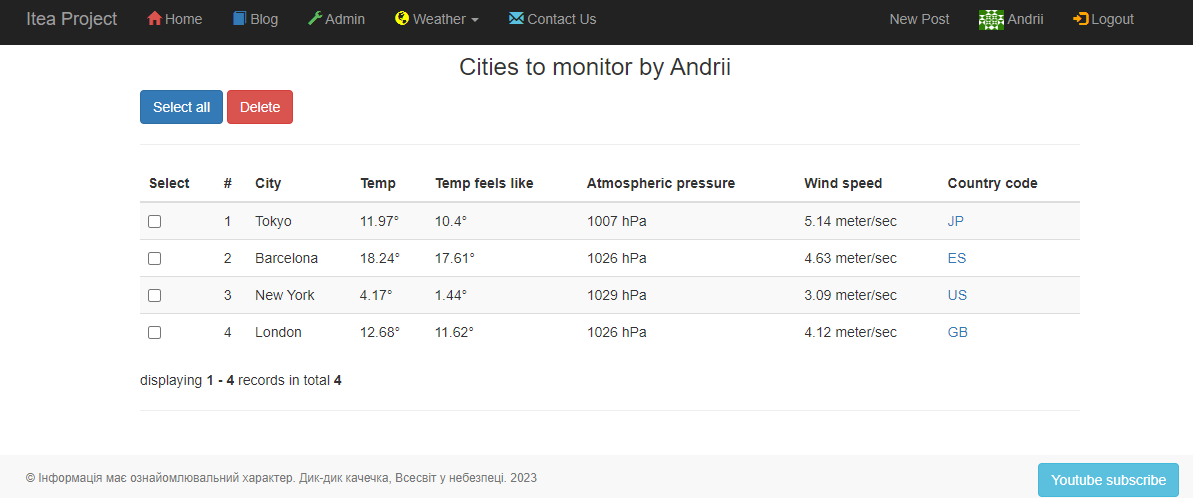
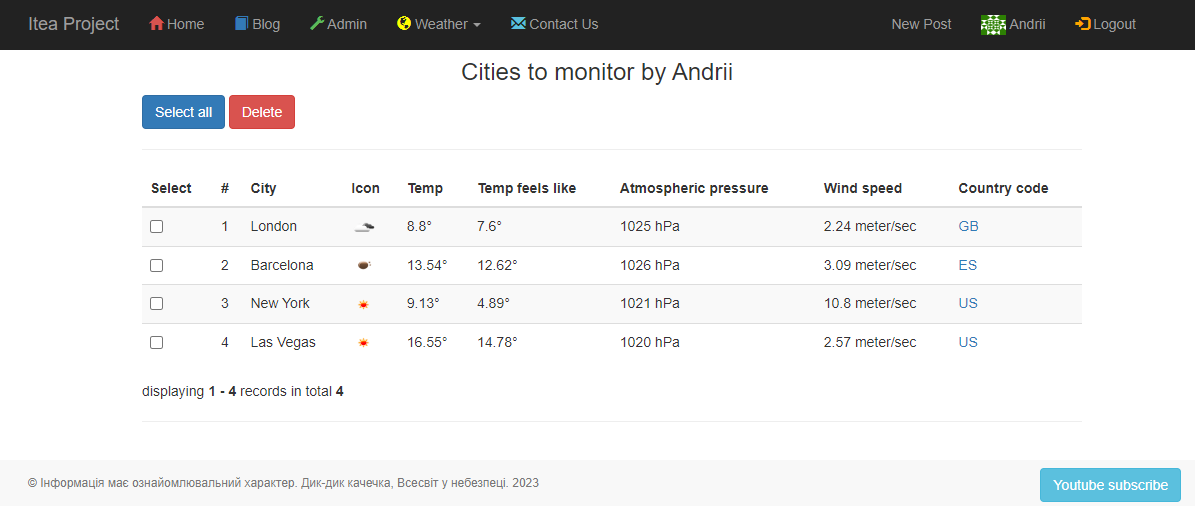
15. refactor weather templates

diff --git a/app/templates/weather/show_user_cities.html b/app/templates/weather/show_user_cities.html
@@ -18,6 +18,7 @@
                     <th class="col">Select</th>
                     <th>#</th>
                     <th>City</th>
+                    <th>Icon</th>
                     <th>Temp</th>
                     <th>Temp feels like</th>
                     <th>Atmospheric pressure</th>
@@ -27,24 +28,24 @@
                 </thead>
 
                 <tbody>
-                {% for city in cities %}
+                {% for city in all_cities %}
                     <tr>
 
                         <td>
-                            <input type="checkbox" name="selectors" class="checkbox" value="{{ city.id }}">
+                            <input type="checkbox" name="selectors" class="checkbox" value="{{ city.city_id }}">
                         </td>
 
                         <td>{{ loop.index + (page - 1) * per_page }}</td>
-                        <td>{{ city.city_name }}</td>
-                        <td>{{ get_weather(weather_url, api_key, city.city_name)['main']['temp'] }}&deg;</td>
-                        <td>{{ get_weather(weather_url, api_key, city.city_name)['main']['feels_like'] }}&deg;</td>
-                        <td>{{ get_weather(weather_url, api_key, city.city_name)['main']['pressure'] }} hPa</td>
-                        <td>{{ get_weather(weather_url, api_key, city.city_name)['wind']['speed'] }} meter/sec</td>
-                        <td><a class="mr-2" href="#">
-                            {{ get_weather(weather_url, api_key, city.city_name)['sys']['country'] }}
-                        </a></td>
-
-
+                        <td>{{ city.city }}</td>
+                        <td>
+                            <img src="http://openweathermap.org/img/w/{{ city.icon }}.png"
+                                 alt="avatar" width="25" height="20">
+                        </td>
+                        <td>{{ city.temp }}&deg;</td>
+                        <td>{{ city.feels_like }}&deg;</td>
+                        <td>{{ city.pressure }} hPa</td>
+                        <td>{{ city.wind }} meter/sec</td>
+                        <td><a class="mr-2" href="#">{{ city.code }}</a></td>
 
                     </tr>
                 {% endfor %}

diff --git a/app/weather/routes.py b/app/weather/routes.py
@@ -6,6 +6,7 @@ from app.auth.utils import get_quantity
 from app.weather import weather
 from app.weather.forms import CityForm
 from app.weather.models import UserCity
+from app.weather.weather_api import get_weather
 
 
 @weather.route('/index', methods=['GET', 'POST'])
@@ -41,10 +42,23 @@ def show_user_cities():
     pagination = Pagination(page=page, per_page=per_page, total=total,
                             css_framework='bootstrap4')
 
-    from app.weather.weather_api import get_weather
-
     api_key = current_app.config['WEATHER_API_KEY']
     weather_url = current_app.config['OPENWEATHER_API_URL']
+
+    all_cities = []
+    for city in cities:
+        response_city = get_weather(weather_url, api_key, city.city_name)
+        city_info = {
+            "city_id": city.id,
+            "city": city.city_name,
+            "temp": response_city['main']['temp'],
+            "feels_like": response_city['main']['feels_like'],
+            "pressure": response_city['main']['pressure'],
+            "wind": response_city['wind']['speed'],
+            "code": response_city['sys']['country'],
+            "icon": response_city['weather'][0]['icon'],
+        }
+        all_cities.append(city_info)
 
     return render_template('weather/show_user_cities.html',
                            title='Show user cities',
@@ -52,9 +66,8 @@ def show_user_cities():
                            page=page,
                            per_page=per_page,
                            pagination=pagination,
-                           get_weather=get_weather,
-                           weather_url=weather_url,
-                           api_key=api_key)
+                           all_cities=all_cities)
+
 
 @weather.route('/delete/cities', methods=['POST'])
 @login_required
@@ -69,8 +82,7 @@ def delete_cities():
 
     message = 'Deleted: '
     for selector in selectors:
-
-        city = UserCity.get(UserCity.id == selector)
+        city = UserCity.get(UserCity.id == int(selector))
         message += f'{city.city_name} '
         city.delete_instance()
     flash(message, 'info')

diff --git a/app/weather/weather_api.py b/app/weather/weather_api.py
@@ -31,7 +31,7 @@ def get_weather(weather_url: str, api_key: str, city: str):
 
 
 if __name__ == '__main__':
-    # print(get_weather(OPENWEATHER_API_URL, WEATHER_API_KEY, 'Barcelona'))
+    print(get_weather(OPENWEATHER_API_URL, WEATHER_API_KEY, 'Barcelona'))
     print('-' * 50)
     print(f"Temperature = {get_weather(OPENWEATHER_API_URL, WEATHER_API_KEY, 'Barcelona')['main']['temp']} Celsius\n"
           f"Temperature feels like = {get_weather(OPENWEATHER_API_URL, WEATHER_API_KEY, 'Barcelona')['main']['feels_like']} Celsius\n"
